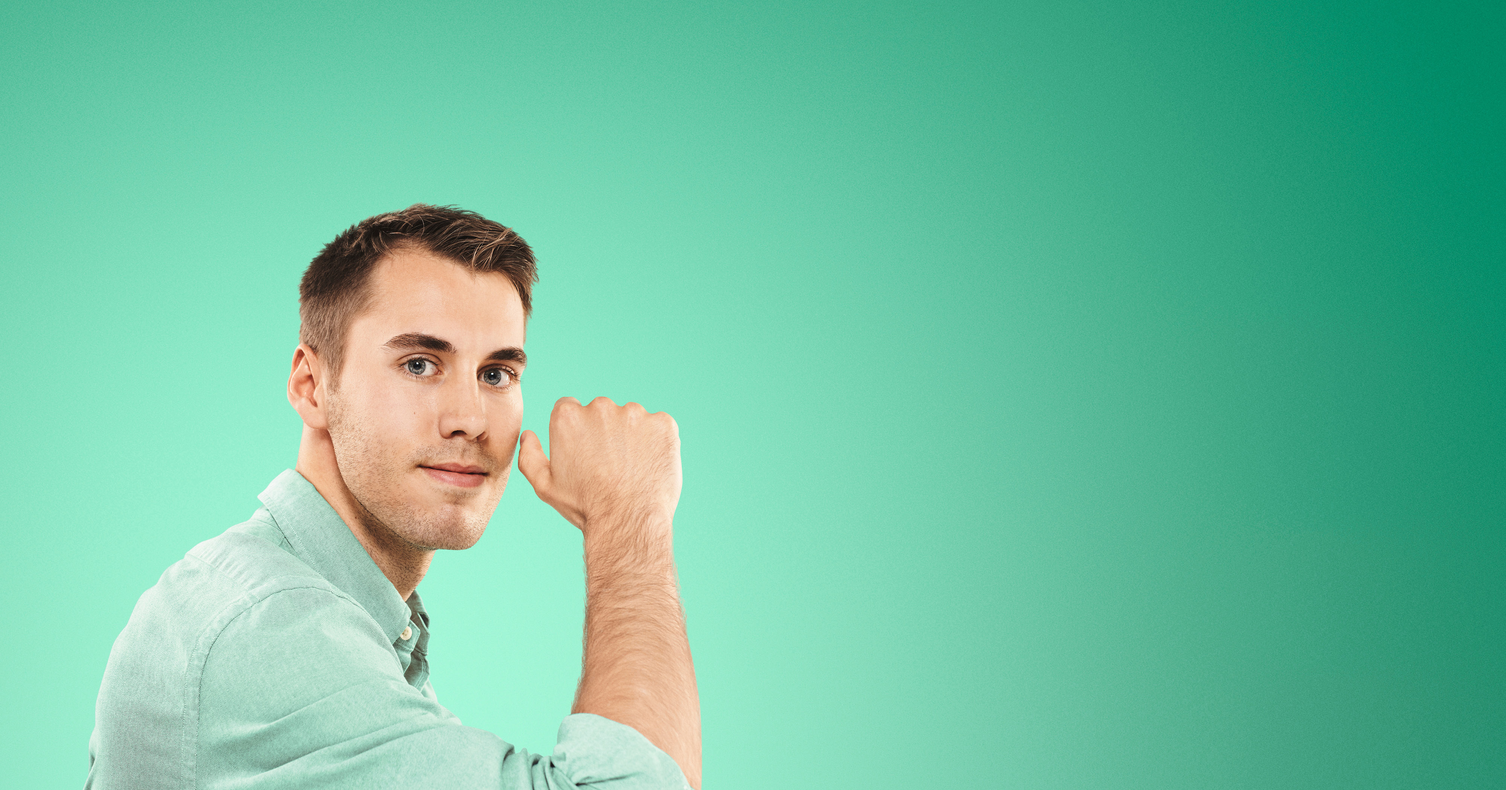
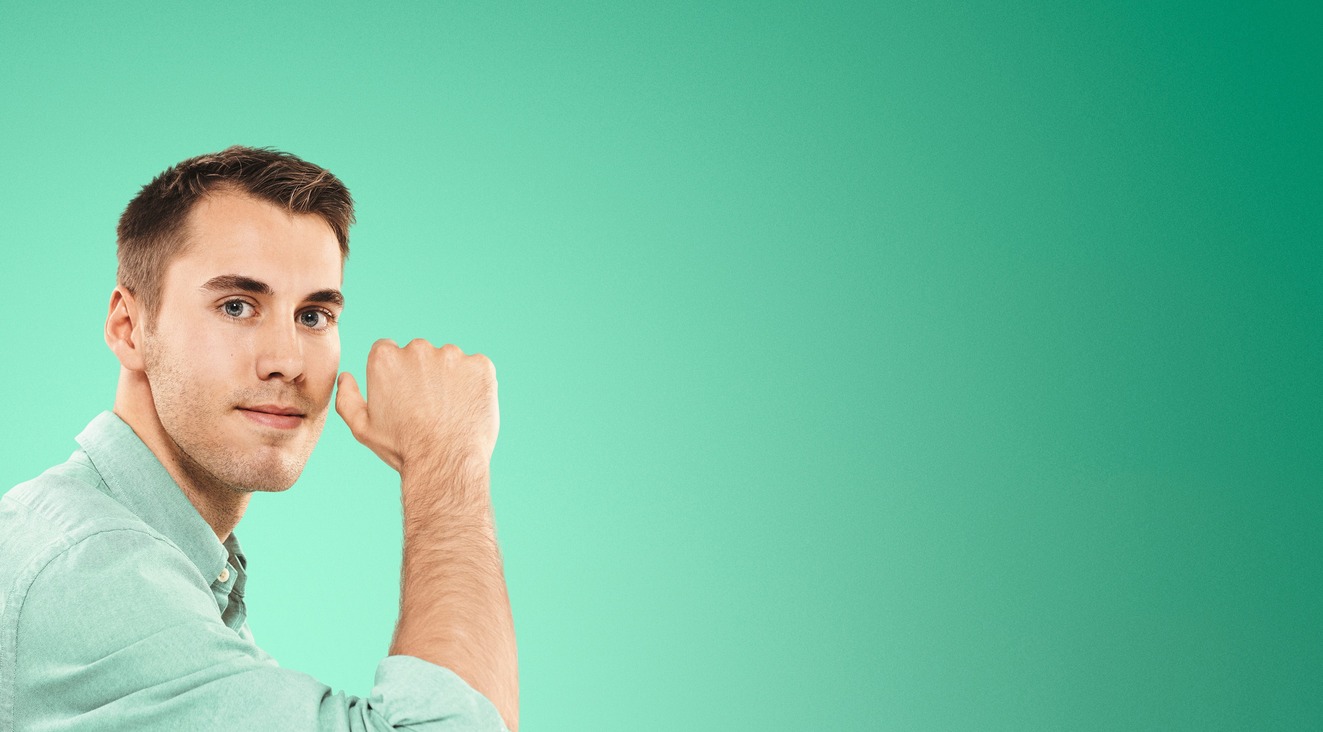
final changes

Changed region(s): [[0.0, 0.1851, 0.4651, 1.0], [0.0, 0.0, 0.093, 0.1851]]

diff --git a/style.css b/style.css
@@ -1,11 +1,32 @@
+#communicationP:before, #designP:before,#developmentP:before    {
+   content: "";
+   display: block;
+   height: 4em;
+   margin: -60px 0 0;
+}
+#businessP:before {
+   content: "";
+   display: block;
+   height: 7em;
+   margin: -60px 0 0;
+}
+#sem0:before {
+   content: "";
+   display: block;
+   height: 6em;
+   margin: -60px 0 0;
+}
+
 body {
     margin: 0;
     padding: 0;
     background-color: #FFF;
     font-family: "Helvetica Neue", "Arial", "Lato", sans-serif;
     overflow-x: hidden;
+}
 
-
+div.red {
+    background-color: #969595;
 }
 
 a {text-decoration: none;
@@ -64,6 +85,7 @@ height:70px;}
     background-attachment: scroll;
     background-size: cover;
     top: 0;
+    margin-bottom: 2em;
 
 }
 
@@ -74,6 +96,7 @@ height:70px;}
     background-attachment: scroll;
     background-size: cover;
     top: 0;
+    margin-bottom: 2em;
 }
 #admission-bg {
     background-image: url(images/admition_header.jpeg);
@@ -82,6 +105,7 @@ height:70px;}
     background-attachment: scroll;
     background-size: cover;
     top: 0;
+    margin-bottom: 2em;
 
 }
 
@@ -92,6 +116,7 @@ height:70px;}
     background-attachment: scroll;
     background-size: cover;
     top: 0;
+    margin-bottom: 2em;
 }
 #internship {
      background-image: url(images/intersheep_header.png);
@@ -100,6 +125,7 @@ height:70px;}
     background-attachment: scroll;
     background-size: cover;
      top: 0;
+    margin-bottom: 2em;
 }
 
 
@@ -107,9 +133,7 @@ height:70px;}
 
      background-image: url(images/admission_last.jpg);
    background-position:center;
-
     background-repeat: no-repeat;
-    background-attachment:fixed;
     background-size:contain;
      width: 100%;
     max-width: 100%;
@@ -239,17 +263,24 @@ div.color-6 {
 
 
 
-section{margin-left:7vw;
-margin-right:7vw;}
+section {
+    margin-left:7vw;
+margin-right:7vw;
+}
 
-main {margin-left:7vw;
-margin-right:7vw;}
+main {
+    margin-left:7vw;
+margin-right:7vw;
+}
 
-aside {width:80vw;
-    justify-content: center;
-    margin-left:10vw;
-    padding-top:1em;
+aside {
+    display: grid;
+    width:20em;
+   margin: auto;
 
+    padding:1em;
+    grid-template-columns: repeat(4,1fr);
+    grid-gap: .5em;
 }
 
 
@@ -385,9 +416,10 @@ margin-top:.1em;}
 
 
 .semTitle{
-    height:4em;
+    margin: 2em 0 .5em 0;
     color:black;
-text-align: center;}
+text-align: center;
+}
 
 .circle div img {
     width: 100%;
@@ -399,6 +431,8 @@ text-align: center;}
     grid-template-columns: repeat(4, minmax(30px, 40px));
     grid-column-gap: .5em;
     position: fixed;
+    max-width: 80px;
+    left: 0;
 }
 
 .semesterContainer {
@@ -622,7 +656,7 @@ section img {
     font-size: 25px;
     font-weight: 400;
     padding: .3em .3em .3em;
-    margin: 0em 0 .4em .8em;
+    margin: 0em 0 .4em 0;
 }
 
 h1.title-CA {
@@ -697,6 +731,12 @@ h4 {
 }
 /**********DESKTOP/TABLET***************/
 @media only screen and (min-width: 40em) {
+
+    aside {
+         justify-content: center;
+
+    }
+
 
     .program-line {
     height: 5px;
@@ -826,7 +866,7 @@ h4 {
     /*program*/
     .circle {
         display: grid;
-        grid-template-columns: repeat(4, minmax(200px, 1fr));
+        grid-template-columns: repeat(4, minmax(100px, 1fr));
         grid-gap: 1.5rem;
         width: 20%;
         margin: auto;
@@ -905,10 +945,9 @@ margin-right:7vw;}
     .apply {
 
      background-image: url(images/admission_last.jpg);
-   background-position:center;
+   background-position:right;
 
     background-repeat: no-repeat;
-    background-attachment: fixed;
     background-size:contain;
      width: 100%;
     max-width: 100%;
@@ -985,7 +1024,7 @@ margin-right:7vw;}
 
     /*program*/
     aside.gridMe {
-        grid-template-rows: 4em
+        grid-template-rows: 4em;
     }
 
     .circle {
@@ -1034,5 +1073,11 @@ margin-right:7vw;}
         margin-bottom: 3.2em;
     }
 
+    .apply {
+        background-attachment: fixed;
+    }
 
+    aside {
+        width:80vw;
+    }
 }

diff --git a/program.html b/program.html
@@ -63,6 +63,8 @@ Presentation > Examination > Grading</p>
         </div>
     </section>
 
+   <h1 class="semTitle">SEMESTERS<div class="line red"></div></h1>
+
     <aside class="circle">
         <div class="sem1"><a href="#sem0"><img src="images/sem1.png"/></a></div>
         <div class="sem2"><a href="#sem1"><img src="images/sem2.png"/></a></div>
@@ -75,7 +77,7 @@ Presentation > Examination > Grading</p>
     <main class="semesters">
         <a id="sem0"></a>
 
-        <h1 class="semTitle">SEMESTERS</h1>
+
 
 
     </main>

diff --git a/index.html b/index.html
@@ -67,6 +67,7 @@ At the end of the program, you will:
 
 
     <!---this is the Core Area section --->
+   <h1 class="semTitle">CORE AREAS<div class="line red"></div></h1>
 
 
     <aside class="circle">
